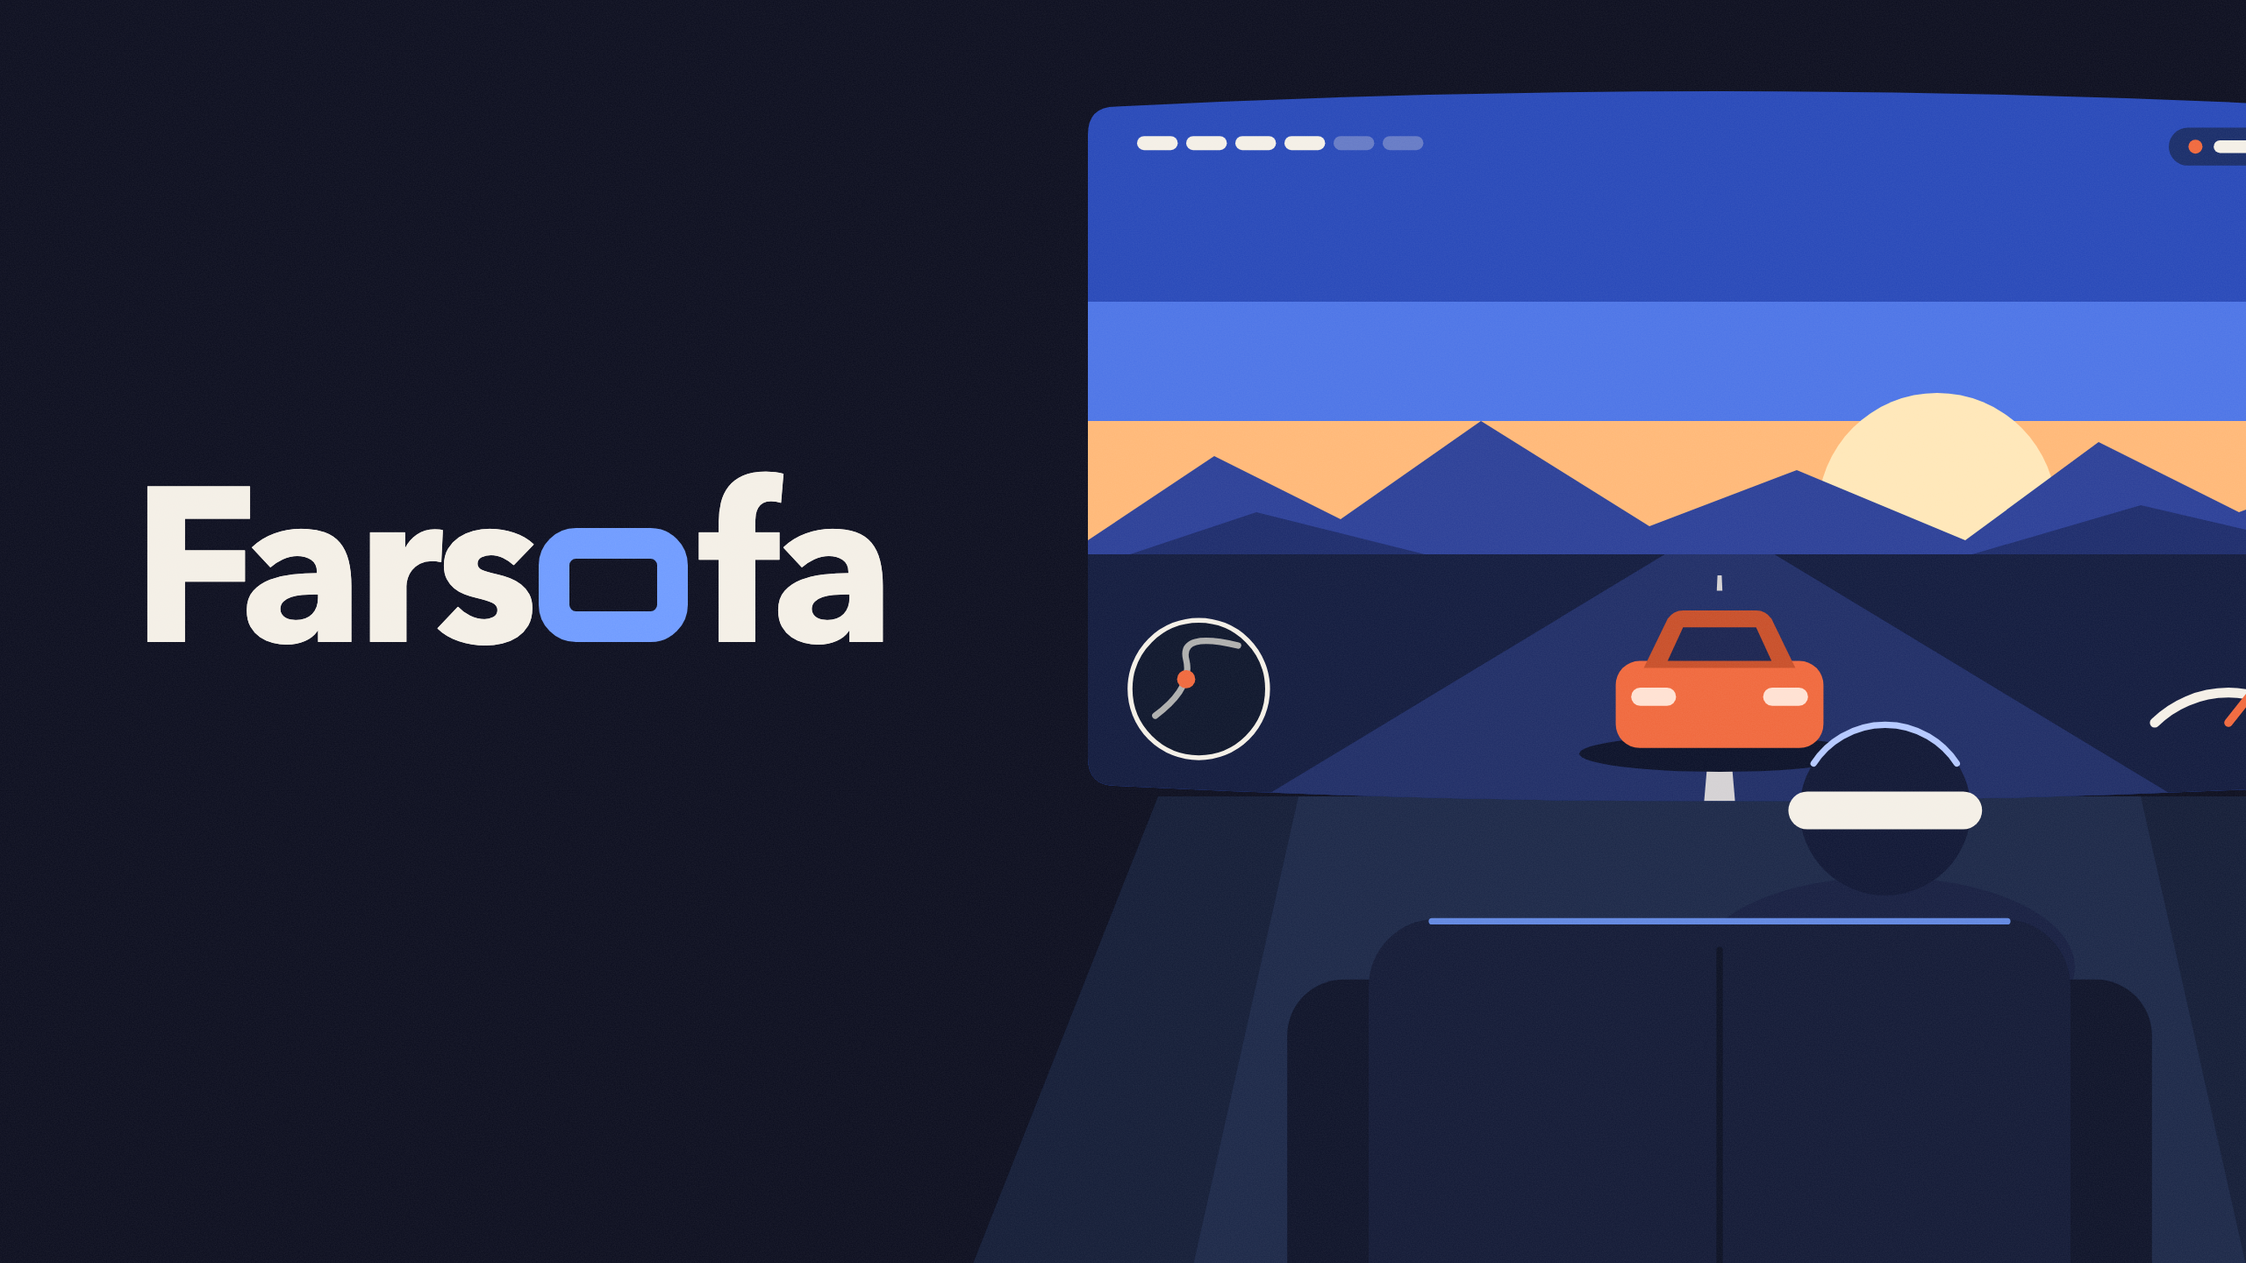
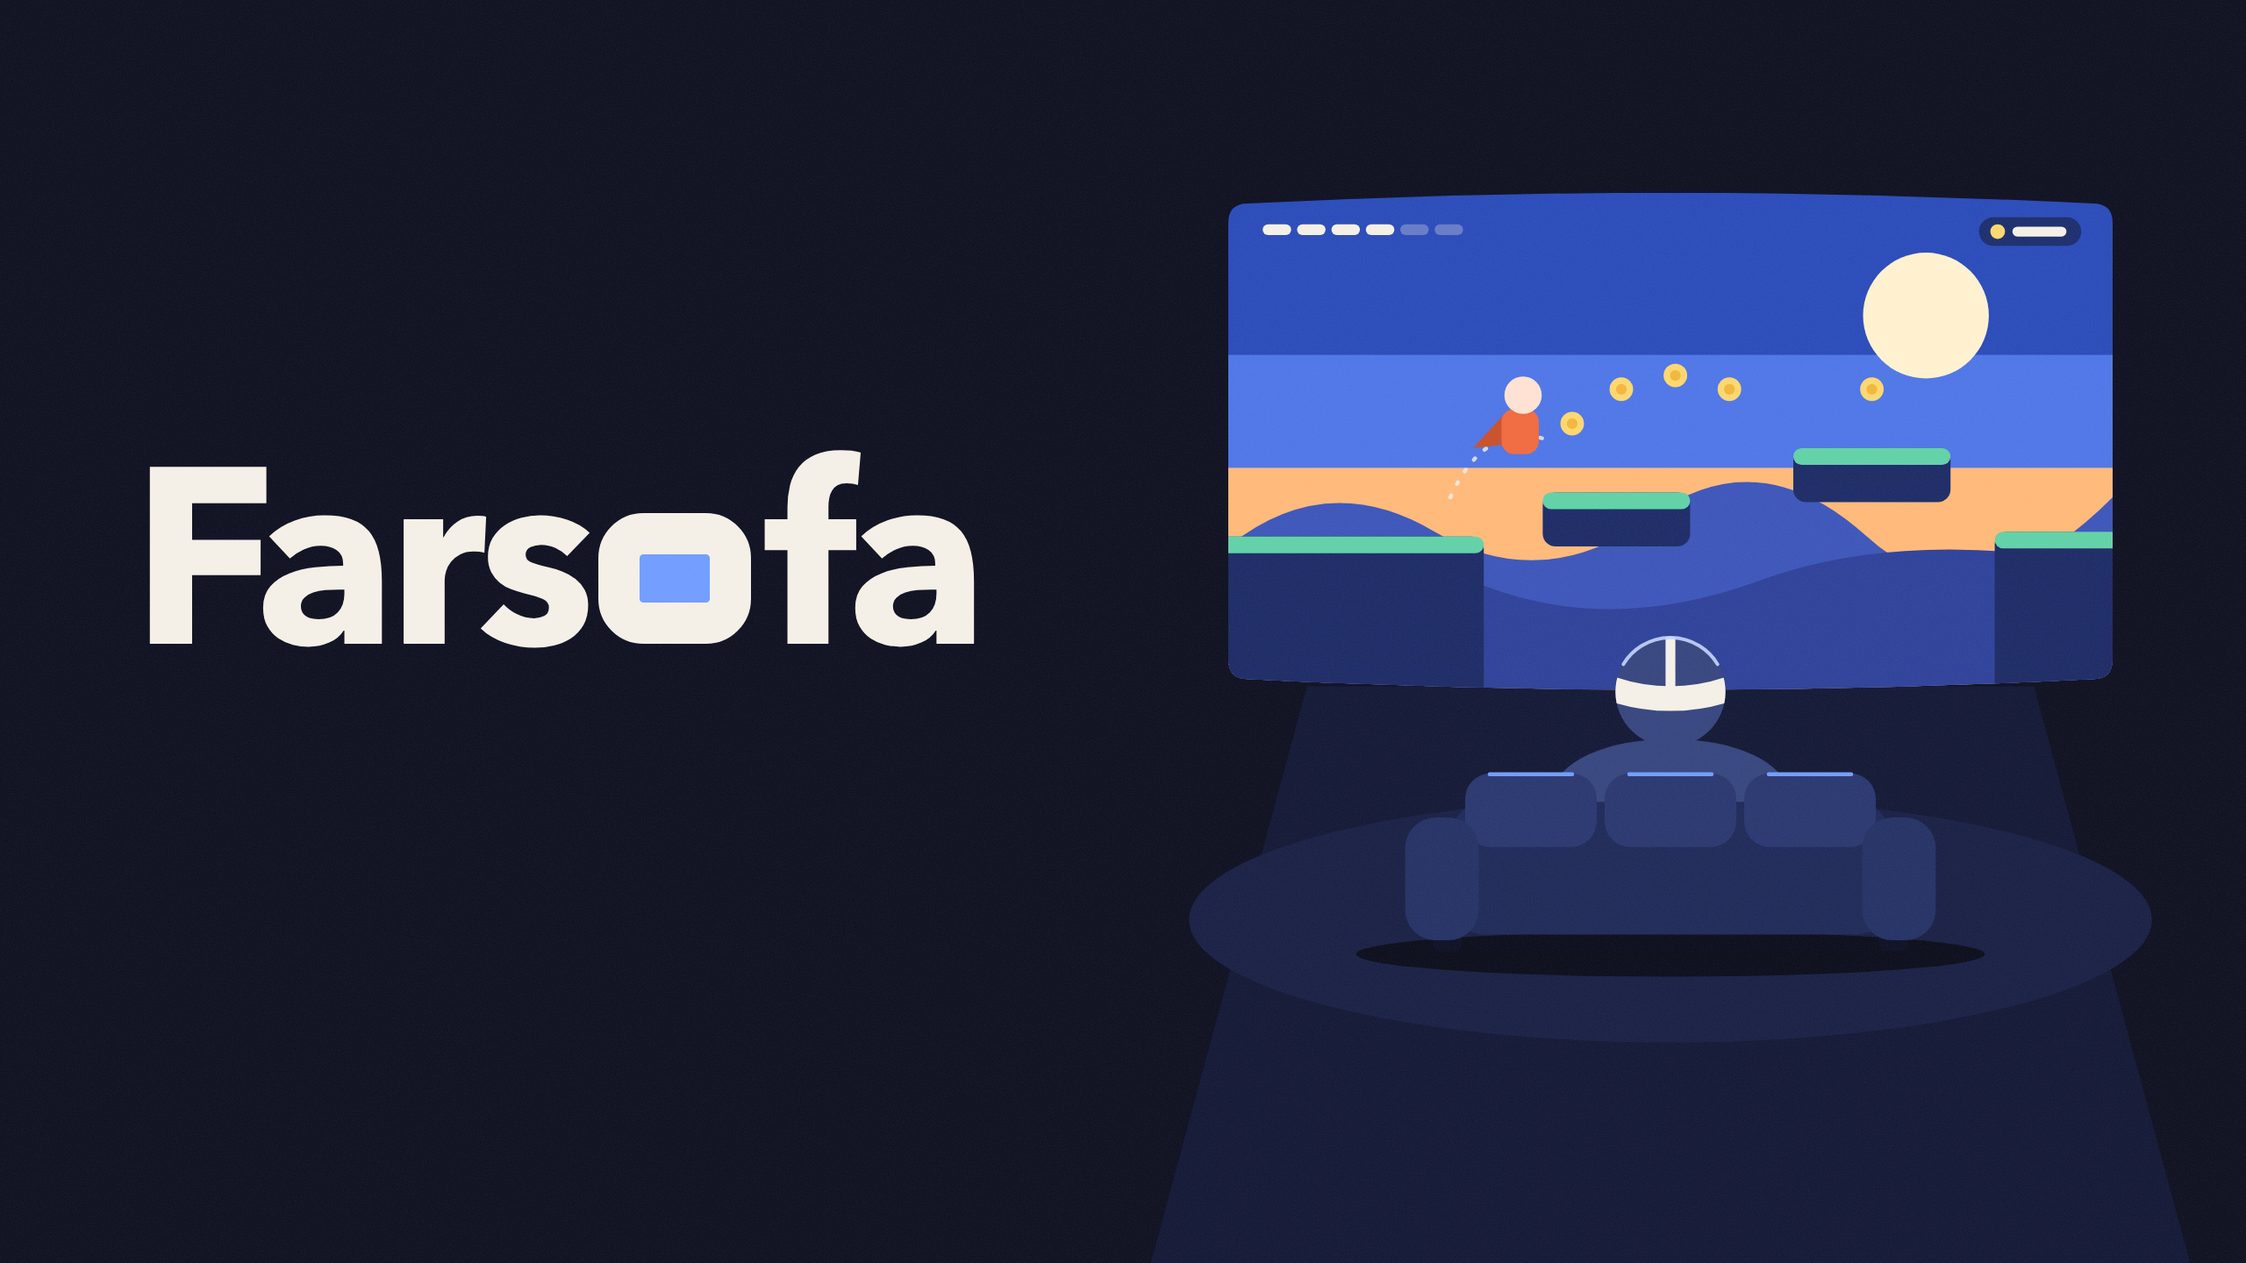
Redraw store artwork as a platform-game scene; add a test-only demo picture mode for screenshots

Changed region(s): [[0.4688, 0.0625, 1.0, 1.0], [0.0625, 0.3438, 0.4375, 0.5312]]

diff --git a/app/src/main/java/app/farsofa/vr/stream/ImmersiveActivity.kt b/app/src/main/java/app/farsofa/vr/stream/ImmersiveActivity.kt
@@ -3,6 +3,9 @@
 package app.farsofa.vr.stream
 
 import android.content.Intent
+import android.content.pm.ApplicationInfo
+import android.graphics.BitmapFactory
+import android.graphics.Rect
 import android.graphics.Color
 import android.os.Bundle
 import android.os.Handler
@@ -56,6 +59,7 @@ class ImmersiveActivity : ComponentActivity(), StreamSession.Callbacks, XrNative
     private val handler = Handler(Looper.getMainLooper())
     private var xr = 0L
     private var leaving = false
+    private var demo = false
 
     private var layout = ScreenLayout()
     private var presets = emptyList<ScreenPreset>()
@@ -140,7 +144,10 @@ class ImmersiveActivity : ComponentActivity(), StreamSession.Callbacks, XrNative
         bar = ControlBar(presets, layout)
 
         stream = StreamSession(this, intent, this)
-        if (!stream.isOpen) {
+        // Test builds can open the screen with a picture of our own instead of a console, which is how
+        // the store screenshots are taken without showing anyone else's game.
+        demo = intent.getBooleanExtra(EXTRA_DEMO, false) && applicationInfo.flags and ApplicationInfo.FLAG_DEBUGGABLE != 0
+        if (!stream.isOpen && !demo) {
             leave(getString(R.string.stream_failed_start))
             return
         }
@@ -181,6 +188,17 @@ class ImmersiveActivity : ComponentActivity(), StreamSession.Callbacks, XrNative
                 )
                 finishAndRemoveTask()
             }
+        }
+    }
+
+    private fun drawDemoPicture(surface: Surface) {
+        try {
+            val picture = assets.open("demo.png").use { BitmapFactory.decodeStream(it) } ?: return
+            val canvas = surface.lockHardwareCanvas()
+            canvas.drawBitmap(picture, null, Rect(0, 0, canvas.width, canvas.height), null)
+            surface.unlockCanvasAndPost(canvas)
+        } catch (e: Exception) {
+            Diagnostics.event("demo picture unavailable: $e")
         }
     }
 
@@ -514,7 +532,9 @@ class ImmersiveActivity : ComponentActivity(), StreamSession.Callbacks, XrNative
             barSurface = bar
             overlaySurface = overlay
             layout = fit(layout)
-            if (!stream.attachSurface(video)) {
+            if (demo) {
+                drawDemoPicture(video)
+            } else if (!stream.attachSurface(video)) {
                 leave(getString(R.string.stream_failed_start))
                 return@runOnUiThread
             }
@@ -640,7 +660,10 @@ class ImmersiveActivity : ComponentActivity(), StreamSession.Callbacks, XrNative
     private var rawEventsLogged = 0
     private var rawMotionsLogged = 0
 
-    private companion object {
+    companion object {
+        /** Test builds only: show the bundled picture instead of connecting to a console. */
+        const val EXTRA_DEMO = "demo"
+
         const val VIDEO_WIDTH = 1920
         const val VIDEO_HEIGHT = 1080
 

diff --git a/app/src/main/java/app/farsofa/vr/ui/MainActivity.kt b/app/src/main/java/app/farsofa/vr/ui/MainActivity.kt
@@ -48,6 +48,14 @@ class MainActivity : ComponentActivity() {
         consoleStore = ConsoleStore(this)
         psnStore = PsnStore(this)
         importPairing()
+        if (intent.getBooleanExtra(ImmersiveActivity.EXTRA_DEMO, false) && applicationInfo.flags and ApplicationInfo.FLAG_DEBUGGABLE != 0) {
+            startActivity(
+                Intent(this, ImmersiveActivity::class.java).addFlags(Intent.FLAG_ACTIVITY_NEW_TASK)
+                    .putExtra(ImmersiveActivity.EXTRA_DEMO, true)
+            )
+            finishAndRemoveTask()
+            return
+        }
         setContent { FarsofaTheme { App() } }
     }
 

diff --git a/store/art/build.py b/store/art/build.py
@@ -17,6 +17,8 @@ INK = "#0B0D1E"
 CREAM = "#F4EFE6"
 BLUE = "#6F9BFF"
 CLAY = "#F0683C"
+MINT = "#5FD0A6"
+GOLD = "#FFD66B"
 FONT = "'Avenir Next', 'Avenir', 'Helvetica Neue', sans-serif"
 
 # The screen in world units: 16:9, with gently bowed top and bottom edges like a curved display.
@@ -24,91 +26,92 @@ SX, SY, SW, SH = 600, 80, 1800, 1012
 BOW = 22
 
 
-def game():
-    """What is on the screen, in the screen's own 1800 x 1012 space: a dusk road and a car, with a HUD."""
-    dashes = "".join(
-        f'<polygon points="{900 - w:.0f},{y} {900 + w:.0f},{y} {900 + w * 1.5:.0f},{y + h} {900 - w * 1.5:.0f},{y + h}" fill="{CREAM}" opacity="0.85"/>'
-        for y, h, w in ((690, 22, 3), (740, 38, 5), (820, 62, 9), (930, 82, 15))
-    )
-    segments = "".join(
-        f'<rect x="{70 + i * 70}" y="64" width="58" height="20" rx="10" fill="{CREAM}" opacity="{1 if i < 4 else 0.3}"/>'
+def game(hud=True):
+    """What is on the screen, in the screen's own 1800 x 1012 space: a platform game at dusk, with a HUD."""
+    def platform(x, y, w, h):
+        return (f'<rect x="{x}" y="{y}" width="{w}" height="{h}" rx="26" fill="#1A2864"/>'
+                f'<rect x="{x}" y="{y}" width="{w}" height="34" rx="17" fill="{MINT}"/>')
+    coins = "".join(f'<circle cx="{x}" cy="{y}" r="24" fill="{GOLD}"/><circle cx="{x}" cy="{y}" r="11" fill="#F0B63C"/>'
+                    for x, y in ((700, 470), (800, 400), (910, 372), (1020, 400), (1310, 400)))
+    pips = "".join(
+        f'<rect x="{70 + i * 70}" y="64" width="58" height="22" rx="11" fill="{CREAM}" opacity="{1 if i < 4 else 0.3}"/>'
         for i in range(6)
     )
+    counter = (f'<rect x="1528" y="50" width="208" height="58" rx="29" fill="#0B0D1E" opacity="0.5"/>'
+               f'<circle cx="1566" cy="79" r="15" fill="{GOLD}"/><rect x="1596" y="69" width="110" height="20" rx="10" fill="{CREAM}"/>')
     return f'''
       <rect width="1800" height="1012" fill="#2748B8"/>
-      <rect y="300" width="1800" height="240" fill="#4C74E6"/>
-      <rect y="470" width="1800" height="200" fill="#FFB877"/>
-      <circle cx="1210" cy="600" r="170" fill="#FFE7B8"/>
-      <polygon points="0,640 180,520 360,610 560,470 800,620 1010,540 1250,640 1440,500 1640,600 1800,540 1800,700 0,700" fill="#2B3F97"/>
-      <polygon points="0,680 240,600 520,670 1260,660 1500,590 1800,660 1800,720 0,720" fill="#1C2B6B"/>
-      <rect y="660" width="1800" height="352" fill="#111A3D"/>
-      <polygon points="822,660 978,660 1560,1012 240,1012" fill="#1F2D66"/>
-      {dashes}
-      <ellipse cx="900" cy="944" rx="200" ry="26" fill="#0A1028"/>
-      <rect x="752" y="812" width="296" height="124" rx="34" fill="{CLAY}"/>
-      <path d="M792 822 L826 752 Q834 740 848 740 L952 740 Q966 740 974 752 L1008 822 Z" fill="#C84E28"/>
-      <path d="M826 812 L848 764 L952 764 L974 812 Z" fill="#1A2350"/>
-      <rect x="774" y="850" width="64" height="26" rx="13" fill="#FFE1D2"/>
-      <rect x="962" y="850" width="64" height="26" rx="13" fill="#FFE1D2"/>
-      {segments}
-      <rect x="1540" y="52" width="196" height="54" rx="27" fill="#0A0F19" opacity="0.5"/>
-      <circle cx="1578" cy="79" r="10" fill="{CLAY}"/>
-      <rect x="1604" y="70" width="104" height="18" rx="9" fill="{CREAM}"/>
-      <circle cx="158" cy="852" r="98" fill="#0A0F19" opacity="0.5"/>
-      <circle cx="158" cy="852" r="98" fill="none" stroke="{CREAM}" stroke-width="7"/>
-      <path d="M96 890 Q150 850 140 810 T214 790" fill="none" stroke="{CREAM}" stroke-width="9" stroke-linecap="round" opacity="0.7"/>
-      <circle cx="140" cy="838" r="13" fill="{CLAY}"/>
-      <path d="M1520 900 A150 150 0 0 1 1730 900" fill="none" stroke="{CREAM}" stroke-width="14" stroke-linecap="round"/>
-      <path d="M1625 900 L1690 818" stroke="{CLAY}" stroke-width="12" stroke-linecap="round"/>'''
+      <rect y="330" width="1800" height="260" fill="#4C74E6"/>
+      <rect y="560" width="1800" height="460" fill="#FFB877"/>
+      <circle cx="1420" cy="250" r="128" fill="#FFF1CF"/>
+      <path d="M0 720 Q200 560 420 690 T860 660 T1300 700 T1800 620 L1800 1012 L0 1012 Z" fill="#3A53B8"/>
+      <path d="M0 820 Q260 700 520 800 T1080 790 T1800 760 L1800 1012 L0 1012 Z" fill="#2B3F97"/>
+      {platform(-40, 700, 560, 400)}
+      {platform(640, 610, 300, 110)}
+      {platform(1150, 520, 320, 110)}
+      {platform(1560, 690, 320, 400)}
+      {coins}
+      <!-- the hero, mid-jump between two platforms -->
+      <path d="M452 620 Q520 470 640 500" fill="none" stroke="{CREAM}" stroke-width="8" stroke-dasharray="4 26" stroke-linecap="round" opacity="0.8"/>
+      <path d="M560 452 L498 520 L566 512 Z" fill="#C84E28"/>
+      <rect x="556" y="440" width="76" height="92" rx="26" fill="{CLAY}"/>
+      <circle cx="600" cy="412" r="38" fill="#FFE1D2"/>
+      {pips if hud else ""}
+      {counter if hud else ""}'''
 
 
-def scene(tx, ty, scale, key, room=True, seam=True):
-    """The whole scene, placed so world point (0, 0) lands at (tx, ty) and one world unit is `scale` pixels."""
+def scene(tx, ty, scale, key, figure=1.0, hud=True):
+    """The whole scene, placed so world point (0, 0) lands at (tx, ty) and one world unit is `scale` pixels.
+
+    `figure` enlarges the player and sofa about the bottom centre of the screen, for small formats.
+    """
     x1, y1, x2, y2 = SX, SY, SX + SW, SY + SH
     outline = (f"M{x1 + 40} {y1 + BOW} Q{(x1 + x2) / 2} {y1 - BOW} {x2 - 40} {y1 + BOW} Q{x2} {y1 + BOW} {x2} {y1 + BOW + 40} "
                f"L{x2} {y2 - BOW - 40} Q{x2} {y2 - BOW} {x2 - 40} {y2 - BOW} Q{(x1 + x2) / 2} {y2 + BOW} {x1 + 40} {y2 - BOW} "
                f"Q{x1} {y2 - BOW} {x1} {y2 - BOW - 40} L{x1} {y1 + BOW + 40} Q{x1} {y1 + BOW} {x1 + 40} {y1 + BOW} Z")
-    seam = '<path d="M1500 1432 L1500 1900" stroke="#0A0F22" stroke-width="9" stroke-linecap="round"/>' if seam else ""
-    furniture = f'''
-      <g fill="none" stroke="#1E2942" stroke-width="7" stroke-linecap="round" stroke-linejoin="round">
-        <path d="M2700 1560 L2700 760 M2600 760 L2800 760 L2760 620 L2640 620 Z"/>
-        <path d="M150 330 L470 330 L470 900 L150 900 Z M310 330 L310 900 M150 615 L470 615"/>
-      </g>''' if room else ""
+    cushions = "".join(
+        f'<rect x="{x}" y="1262" width="268" height="150" rx="52" fill="#27356E"/>'
+        f'<path d="M{x + 50} 1264 L{x + 218} 1264" stroke="{BLUE}" stroke-width="8" stroke-linecap="round"/>'
+        for x in (1082, 1366, 1650)
+    )
     return f'''
     <g transform="translate({tx} {ty}) scale({scale})">
-      {furniture}
-      <!-- the screen's light on the floor -->
-      <polygon points="700,1085 2300,1085 2900,2600 100,2600" fill="#131C36"/>
-      <polygon points="900,1085 2100,1085 2440,2600 560,2600" fill="#1B2747"/>
+      <!-- the screen's light on the floor: a soft pool, no hard beams -->
+      <polygon points="760,1085 2240,1085 3300,5000 -300,5000" fill="#101533"/>
+      <ellipse cx="1500" cy="1560" rx="980" ry="250" fill="#161D42"/>
       <clipPath id="screen-{key}"><path d="{outline}"/></clipPath>
-      <g clip-path="url(#screen-{key})"><g transform="translate({SX} {SY})">{game()}</g></g>
-      <!-- the player and the sofa, seen from behind; the head cuts into the bottom of the picture -->
-      <g transform="translate(0 -128)">
-        <!-- sitting on the right-hand cushion, so the head does not line up with the car on the screen -->
-        <g transform="translate(236 0)">
-          <ellipse cx="1500" cy="1456" rx="270" ry="128" fill="#161E40"/>
-          <rect x="1454" y="1320" width="92" height="90" fill="#161E40"/>
-          <circle cx="1500" cy="1232" r="122" fill="#0F1634"/>
-          <path d="M1398 1166 A122 122 0 0 1 1602 1166" fill="none" stroke="#B4C8FF" stroke-width="9" stroke-linecap="round"/>
-          <rect x="1362" y="1206" width="276" height="54" rx="27" fill="{CREAM}"/>
+      <g clip-path="url(#screen-{key})"><g transform="translate({SX} {SY})">{game(hud)}</g></g>
+      <g transform="translate(1500 1092) scale({figure}) translate(-1500 -1092)">
+        <ellipse cx="1500" cy="1630" rx="640" ry="46" fill="#080A18"/>
+        <!-- the player, seen from behind, head cutting into the bottom of the picture -->
+        <clipPath id="head-{key}"><circle cx="1500" cy="1096" r="112"/></clipPath>
+        <ellipse cx="1500" cy="1300" rx="236" ry="108" fill="#34437D"/>
+        <rect x="1456" y="1180" width="88" height="70" fill="#34437D"/>
+        <circle cx="1500" cy="1096" r="112" fill="#34437D"/>
+        <g clip-path="url(#head-{key})">
+          <path d="M1500 980 L1500 1104" stroke="{CREAM}" stroke-width="20"/>
+          <path d="M1380 1090 Q1500 1130 1620 1090" fill="none" stroke="{CREAM}" stroke-width="50"/>
         </g>
-        <rect x="884" y="1474" width="190" height="2600" rx="80" fill="#0D1228"/>
-        <rect x="1926" y="1474" width="190" height="2600" rx="80" fill="#0D1228"/>
-        <rect x="1000" y="1388" width="1000" height="2800" rx="96" fill="#121935"/>
-        <path d="M1090 1391 L1910 1391" stroke="{BLUE}" stroke-width="9" stroke-linecap="round" opacity="0.85"/>
-        {seam}
+        <path d="M1404 1040 A112 112 0 0 1 1596 1040" fill="none" stroke="#C3D3FF" stroke-width="7" stroke-linecap="round" opacity="0.9"/>
+        <!-- a low, wide sofa: arms, a back made of three cushions, short legs -->
+        <rect x="1016" y="1560" width="60" height="64" rx="14" fill="#0A0D20"/>
+        <rect x="1924" y="1560" width="60" height="64" rx="14" fill="#0A0D20"/>
+        <rect x="1056" y="1320" width="888" height="270" rx="64" fill="#1C2756"/>
+        {cushions}
+        <rect x="960" y="1352" width="150" height="250" rx="62" fill="#222F63"/>
+        <rect x="1890" y="1352" width="150" height="250" rx="62" fill="#222F63"/>
       </g>
     </g>'''
 
 
 def wordmark(x, baseline, size, anchor="start"):
-    """The title, with its "o" drawn as a small screen. Laid out as HTML so the letters space themselves."""
+    """The title. Its "o" is a small lit screen: a cream ring like the other letters, glowing blue inside."""
     width = size * 4.4
     left = x if anchor == "start" else x - width / 2
     align = "left" if anchor == "start" else "center"
     return f'''
     <foreignObject x="{left}" y="{baseline - size * 1.1}" width="{width}" height="{size * 1.5}">
-      <div xmlns="http://www.w3.org/1999/xhtml" style="font:700 {size}px/1.1 {FONT};color:{CREAM};letter-spacing:-0.035em;text-align:{align};white-space:nowrap">Fars<span style="display:inline-block;box-sizing:border-box;width:0.68em;height:0.52em;margin:0 0.05em 0 0.035em;border:0.14em solid {BLUE};border-radius:0.17em"></span>fa</div>
+      <div xmlns="http://www.w3.org/1999/xhtml" style="font:700 {size}px/1.1 {FONT};color:{CREAM};letter-spacing:-0.035em;text-align:{align};white-space:nowrap">Fars<span style="display:inline-block;box-sizing:border-box;width:0.61em;height:0.52em;margin:0 0.055em 0 0.045em;border:0.165em solid {CREAM};border-radius:0.18em;background:{BLUE}"></span>fa</div>
     </foreignObject>'''
 
 
@@ -124,18 +127,25 @@ html,body{{margin:0;padding:0;background:transparent}}svg{{display:block}}</styl
 
 
 def assets():
-    yield "icon-512", 512, 512, scene(-224, -20, 0.32, "icon", room=False), INK
+    yield "icon-512", 512, 512, scene(-119, 30, 0.25, "icon", figure=1.5, hud=False), INK
     yield ("cover-landscape-2560x1440", 2560, 1440,
-           scene(760, 40, 0.8, "land", room=False) + wordmark(150, 790, 250), INK)
+           scene(1064, 175, 0.56, "land") + wordmark(150, 800, 285), INK)
     yield ("cover-square-1440", 1440, 1440,
-           scene(-180, 12, 0.6, "square", seam=False) + wordmark(720, 1108, 196, "middle"), INK)
+           scene(-30, 60, 0.5, "square") + wordmark(720, 1160, 220, "middle"), INK)
     yield ("cover-portrait-1008x1440", 1008, 1440,
-           scene(-246, 110, 0.5, "portrait", room=False, seam=False) + wordmark(504, 1046, 150, "middle"), INK)
+           scene(-246, 190, 0.5, "portrait") + wordmark(504, 1225, 180, "middle"), INK)
     yield ("hero-3000x900", 3000, 900,
-           scene(1120, -80, 0.62, "hero", room=False) + wordmark(240, 540, 250), INK)
+           scene(1470, 36, 0.46, "hero") + wordmark(300, 560, 300), INK)
     yield ("mini-landscape-1080x360", 1080, 360,
-           scene(310, -10, 0.34, "mini", room=False) + wordmark(56, 222, 112), INK)
-    yield "logo-transparent-3000x900", 3000, 900, wordmark(1500, 600, 520, "middle"), None
+           scene(540, 10, 0.2, "mini", figure=1.3, hud=False) + wordmark(60, 228, 130), INK)
+    yield "logo-transparent-3000x900", 3000, 900, wordmark(1500, 640, 520, "middle"), None
+    # The picture shown on the virtual screen when taking store screenshots, squeezed into video range
+    # (black 16, white 235) because the app stretches whatever it shows back out to full range.
+    yield ("demo-screen-1920x1080", 1920, 1080,
+           f'<filter id="video-range"><feComponentTransfer><feFuncR type="linear" slope="0.859" intercept="0.063"/>'
+           f'<feFuncG type="linear" slope="0.859" intercept="0.063"/><feFuncB type="linear" slope="0.859" intercept="0.063"/>'
+           f'</feComponentTransfer></filter><g filter="url(#video-range)" transform="scale({1920 / 1800})">'
+           f'<rect width="1800" height="1012" fill="#000"/>{game()}</g>', None)
 
 
 def main():
